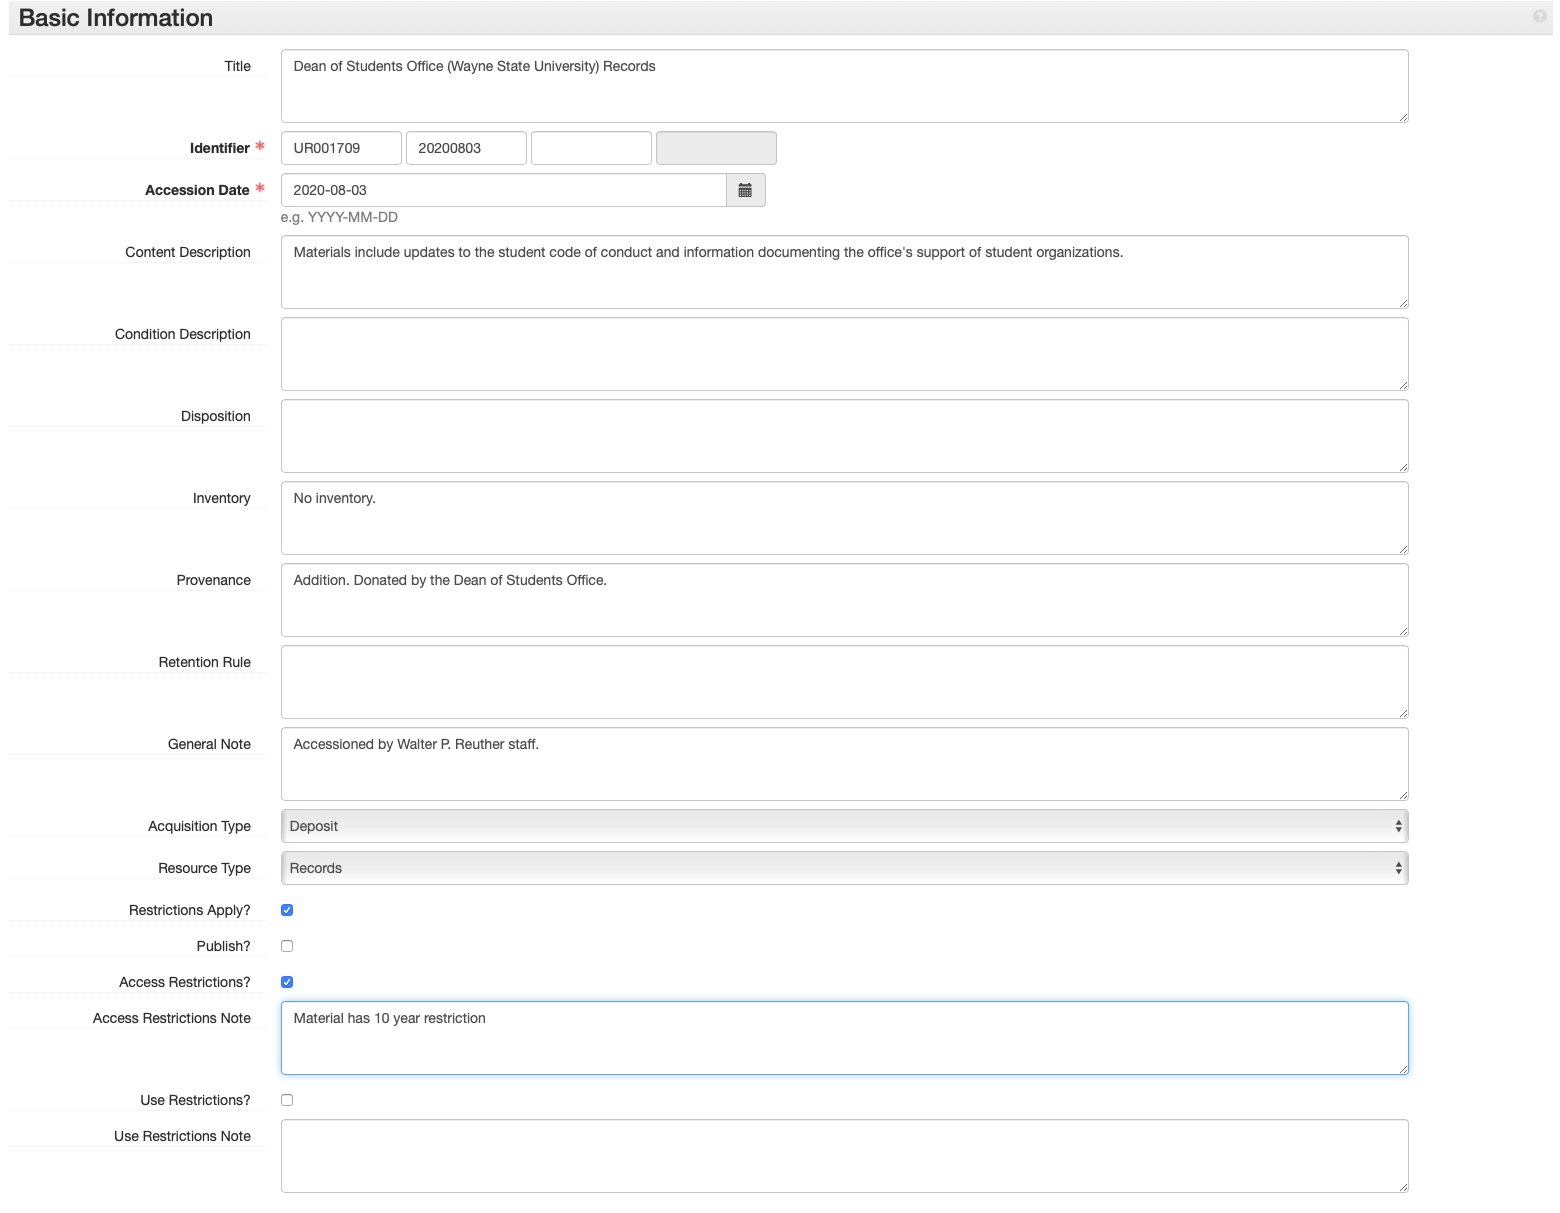
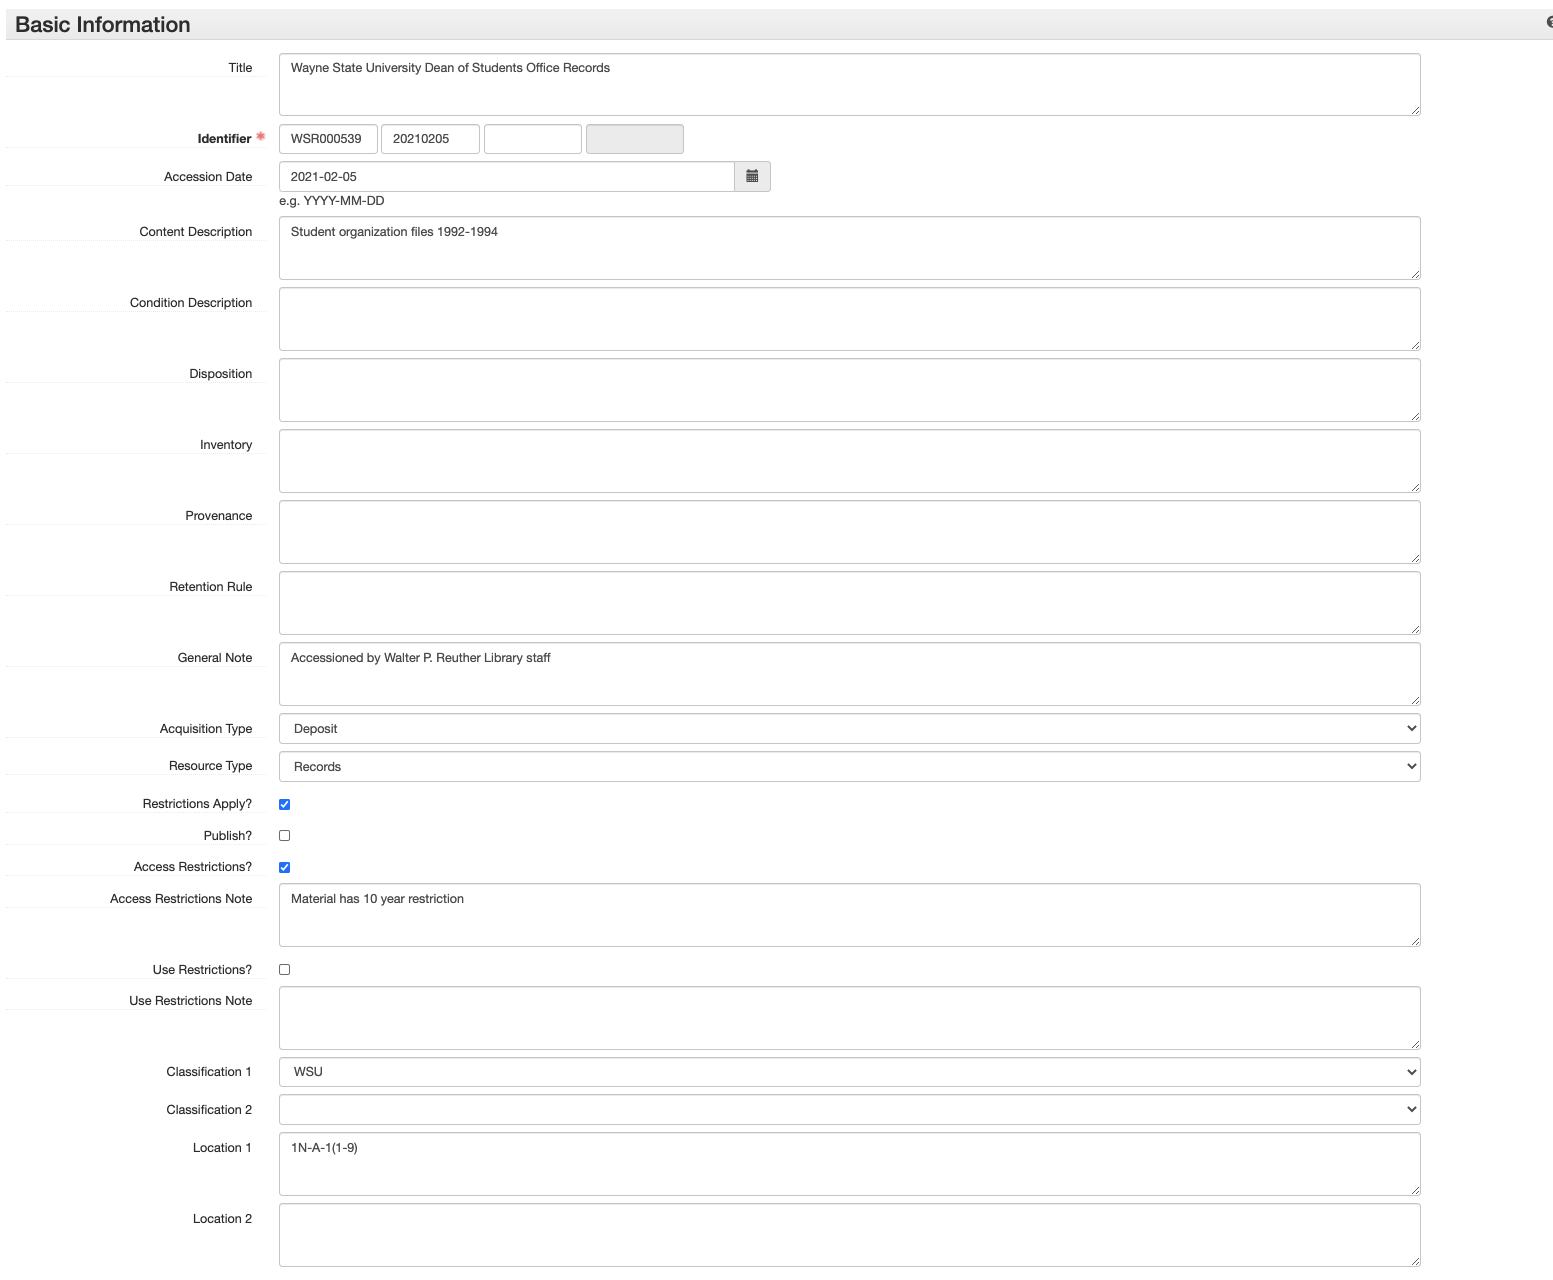
add classification and remove user_defined

diff --git a/docs/01_accessioning.md b/docs/01_accessioning.md
@@ -186,9 +186,13 @@ The instructions below can be used both for creating and editing accession recor
 12.	**Restrictions Apply?** Check if there are **ANY** restrictions on the collection.
 13.	**Publish?** Do **NOT** check.
 14.	**Access Restrictions?** Check if there are any access restrictions.
-15.	A**ccess Restrictions Note**: Describe any access restrictions.
-16.	Use Restrictions? Check if there are any use restrictions.
+15.	**Access Restrictions Note**: Describe any access restrictions.
+16.	**Use Restrictions?** Check if there are any use restrictions.
 17.	**Use Restrictions Note**: Describe any use restrictions.
+18. **Classification 1**: Select the primary collecting area for this accession (e.g., AFT, AFSCME, ALUA_URBAN, AV, WSU, etc.)
+19. **Classification 2**: Select only if there is a secondary collecting area for this accession. This will generally only be the case for accessions that are *both* primarily AV and fall into another collecting area (e.g., AFT, AFSCME, ALUA_LABOR, SEIU, UAW, etc.)
+20. **Location 1**: Enter the physical location of the accession.
+21. **Location 2**: Use this only if there is some signficant secondary location for the accession that cannot easily be communicated in Location 1. Not that this field is primarily maintained for legacy purposes and generally should not be used.
 
 ![Basic Information](img/aspace_accession_basic_info.png)
 
@@ -283,13 +287,6 @@ At a minimum the creator of the collection must be entered. Follow the instructi
 3.	**Processing Plan**: Enter the level to which the collection should be processed (1, 2, or 3). 
 
 ![Collection Management](img/aspace_accession_collection_management.png)
-
-### User Defined
-The following **User Defined** field is filled out for all accessions.
-
-1.	**Text 1**: Enter the physical location of the accession.
-
-![User Defined](img/aspace_accession_user_defined.png)
 
 ### Processing New Event
 Create a **Processing New Event** for all accessions.
